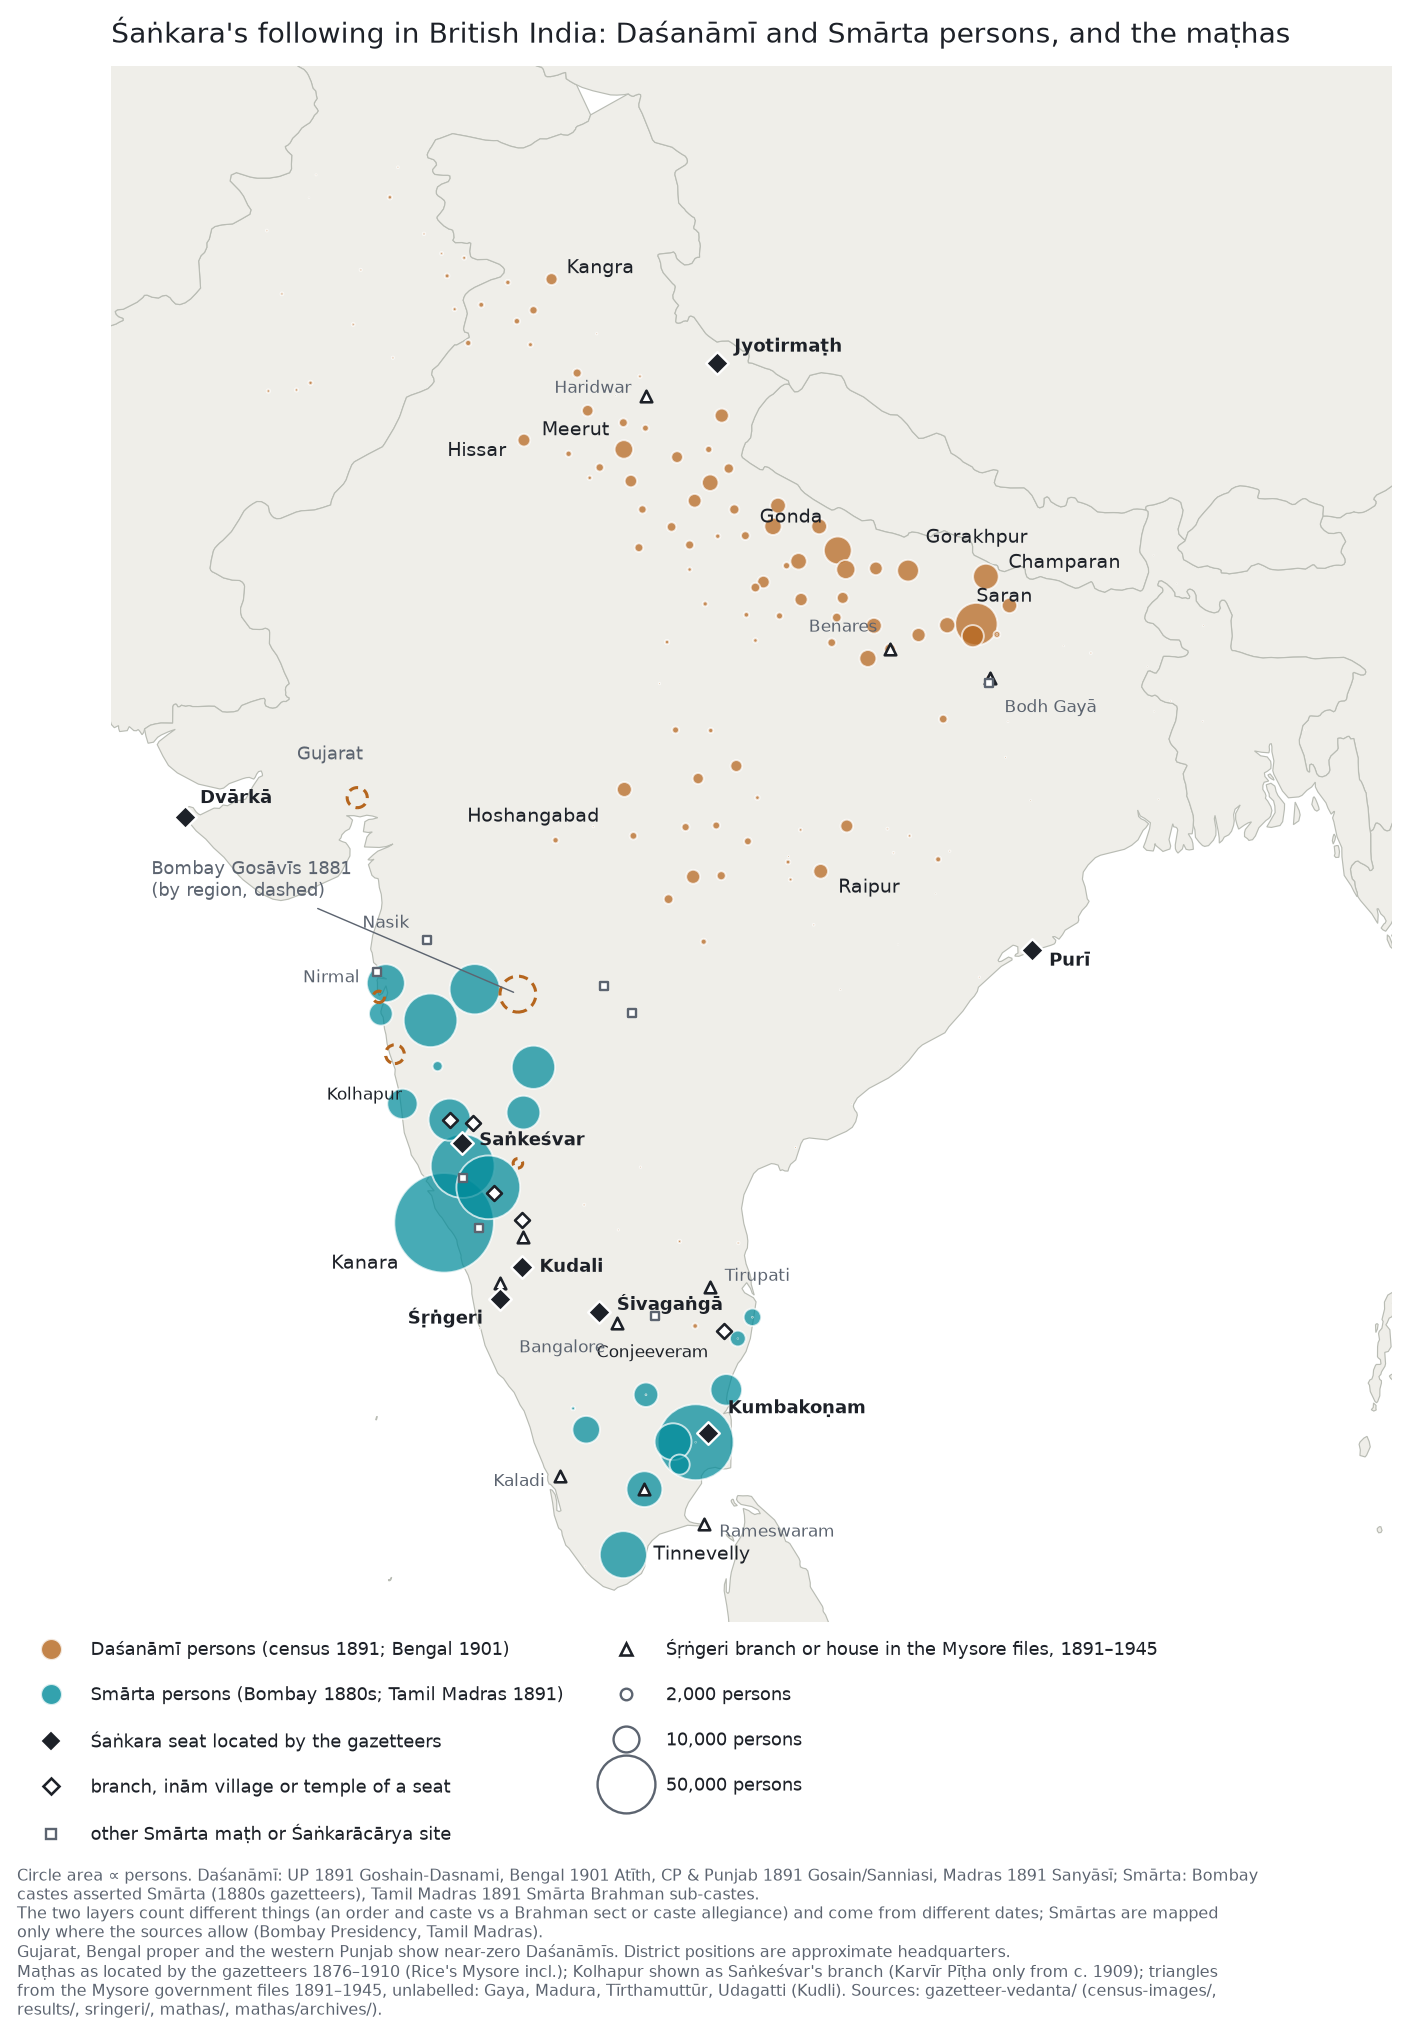
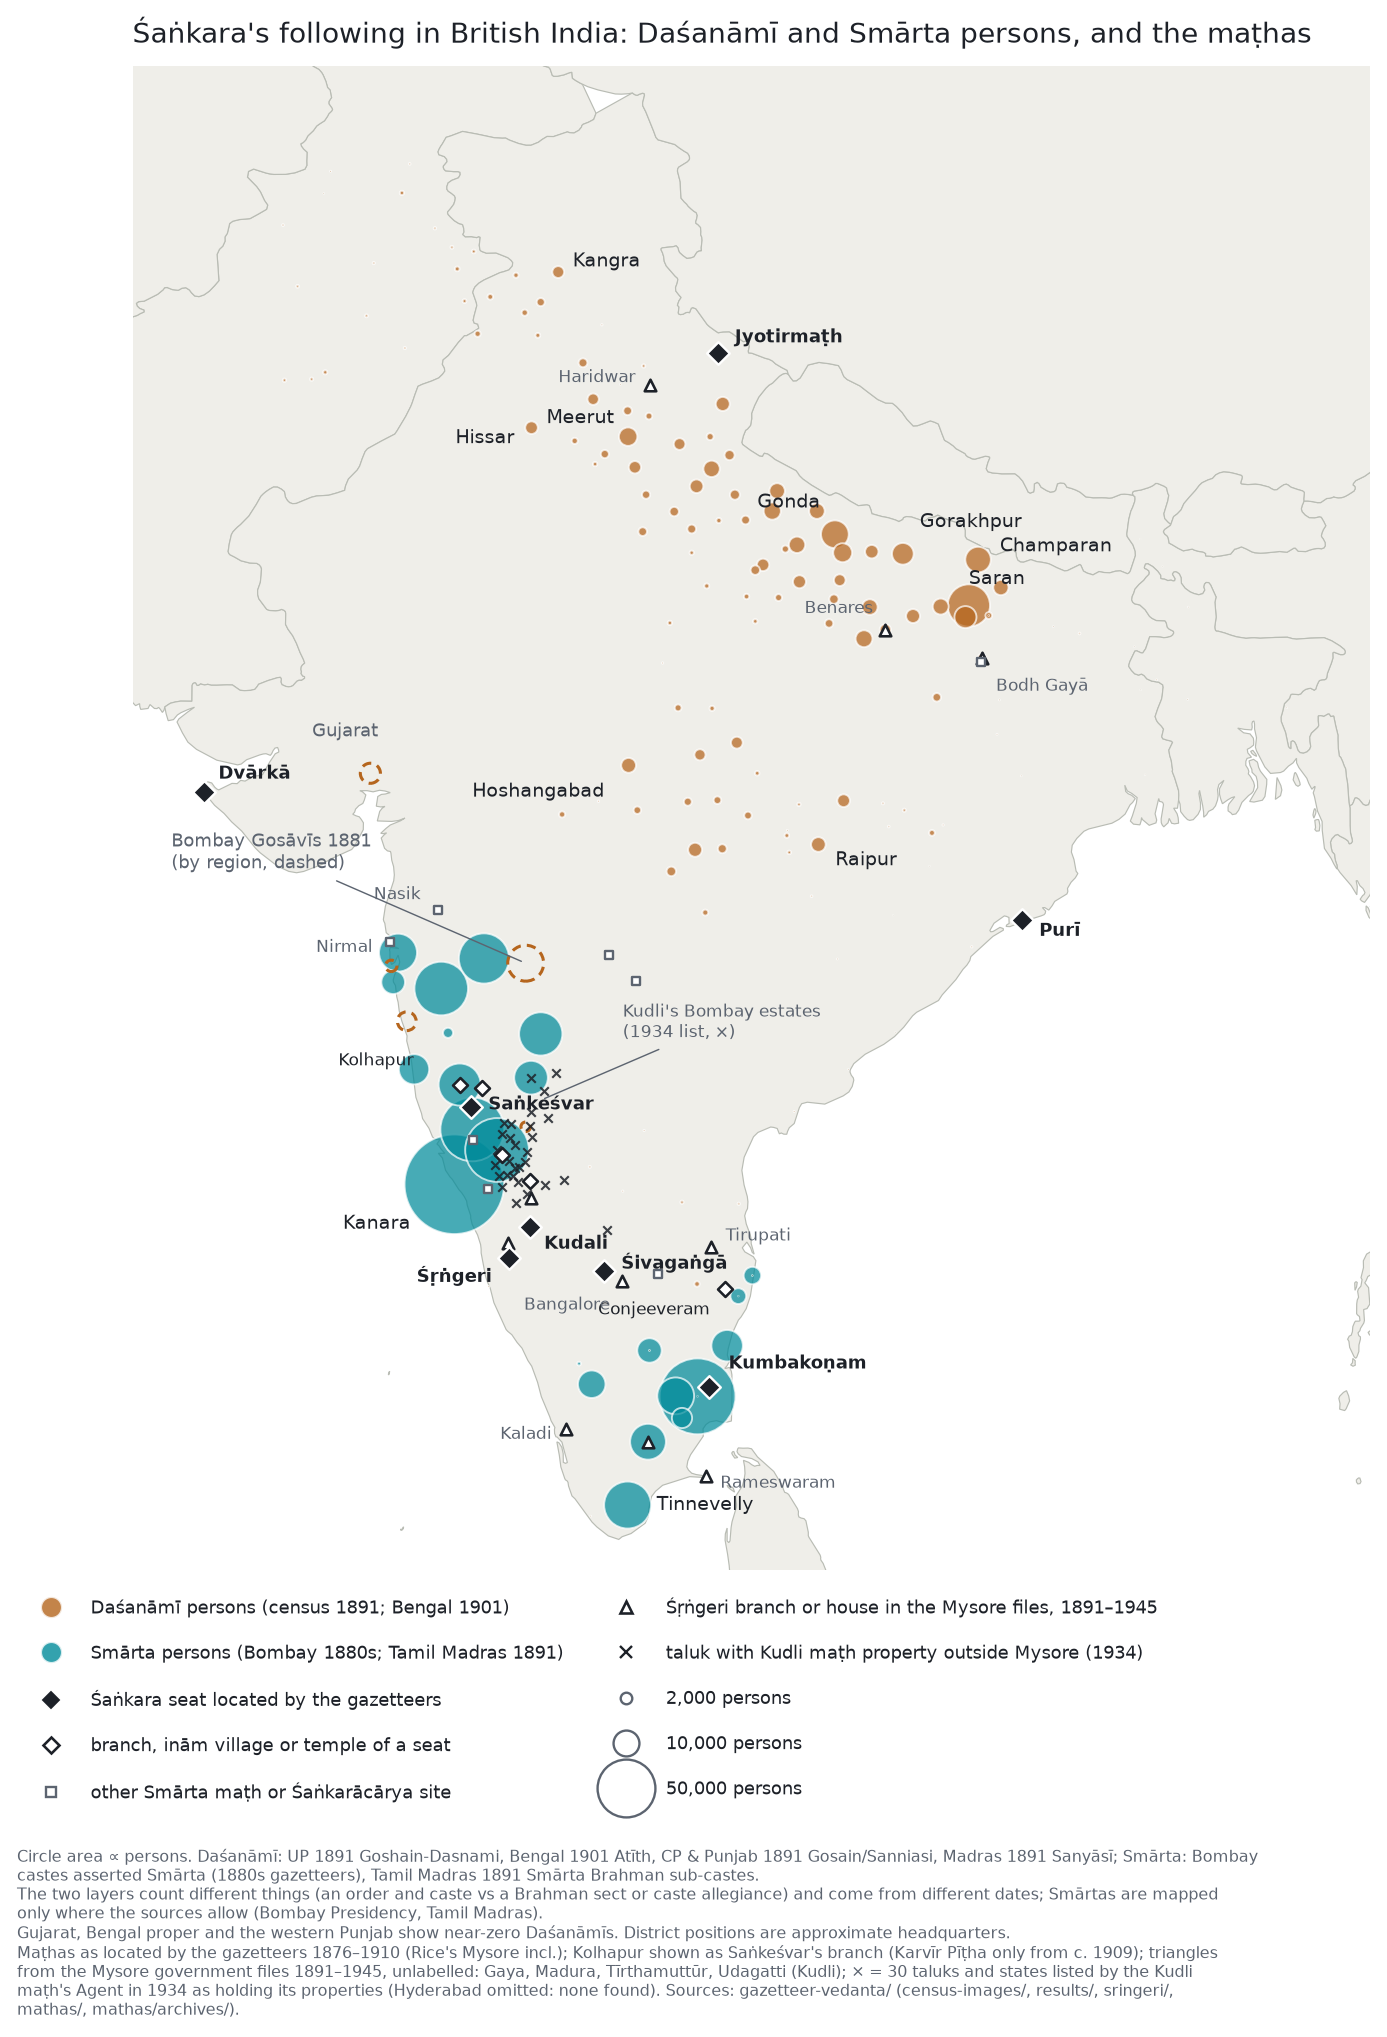
gazetteer-vedanta/map: Kudli maṭh's properties outside Mysore (1934 list) added to the combined map

diff --git a/gazetteer-vedanta/SYNTHESIS.html b/gazetteer-vedanta/SYNTHESIS.html
@@ -111,7 +111,7 @@ footer{font-family:var(--sans);font-size:13.5px;color:var(--muted);border-top:1p
   </table></div>
   <figure class="map">
     <a href="map/combined_map.png"><img src="map/combined_map.png" alt="Map of British India. Ochre circles for Daśanāmī persons form a belt across the Ganges plain, largest in eastern UP and Bihar (Saran, Gorakhpur, Gonda, Champaran), thin in the Central Provinces and the Punjab. Teal circles for Smārta persons cluster on the Bombay Konkan and Karnatak, largest in Kanara and Dharwar, and in the Tamil delta, largest in Tanjore. Black diamonds mark the Śaṅkara seats: Śṛṅgeri, Saṅkeśvar, Kudali, Śivagaṅgā and Kumbakoṇam in the south and west, Dvārkā, Purī and Jyotirmaṭh at the edges." loading="lazy"></a>
-    <figcaption>All six regions on one map. Circle area is proportional to persons. <em class="ochre">Daśanāmīs</em> come from the census: UP, Punjab, CP and Madras 1891, Bengal 1901 (Atīths), and Bombay 1881 Gosāvīs by region only (dashed). <em class="teal">Smārtas</em> come from Bombay castes the 1880s gazetteers call Smārta and from Tamil Madras Smārta Brahman sub-castes (1891). The layers count different things at different dates, and Smārtas are mapped only where the sources allow. Black diamonds mark the Śaṅkara seats the gazetteers locate (1876–1910, Rice’s Mysore included); open diamonds mark their branches, inām villages and temples; small squares mark other Smārta maṭhs and Śaṅkarācārya sites. Triangles mark Śṛṅgeri’s branch maṭhs and houses named in the Mysore government files of 1891–1945 (Rameswaram, Kaladi, Tirupati, Bangalore, Haridwar, Benares, Gaya, Madura, Tīrthamuttūr) and Kudli’s Bombay residence at Udagatti. Kolhapur appears as Saṅkeśvar’s branch, since it became the Karvīr Pīṭha only about 1909. Positions are approximate district headquarters.</figcaption>
+    <figcaption>All six regions on one map. Circle area is proportional to persons. <em class="ochre">Daśanāmīs</em> come from the census: UP, Punjab, CP and Madras 1891, Bengal 1901 (Atīths), and Bombay 1881 Gosāvīs by region only (dashed). <em class="teal">Smārtas</em> come from Bombay castes the 1880s gazetteers call Smārta and from Tamil Madras Smārta Brahman sub-castes (1891). The layers count different things at different dates, and Smārtas are mapped only where the sources allow. Black diamonds mark the Śaṅkara seats the gazetteers locate (1876–1910, Rice’s Mysore included); open diamonds mark their branches, inām villages and temples; small squares mark other Smārta maṭhs and Śaṅkarācārya sites. Triangles mark Śṛṅgeri’s branch maṭhs and houses named in the Mysore government files of 1891–1945 (Rameswaram, Kaladi, Tirupati, Bangalore, Haridwar, Benares, Gaya, Madura, Tīrthamuttūr) and Kudli’s Bombay residence at Udagatti. Small crosses mark the 30 taluks and states outside Mysore that the Kudli maṭh’s Agent listed in 1934 as holding its properties: Dharwar, Bijapur, Belgaum, North Kanara, Bellary, Anantapur and the southern Maratha states. Kolhapur appears as Saṅkeśvar’s branch, since it became the Karvīr Pīṭha only about 1909. Positions are approximate district headquarters.</figcaption>
   </figure>
 </section>
 

diff --git a/gazetteer-vedanta/map/plot_combined.py b/gazetteer-vedanta/map/plot_combined.py
@@ -122,7 +122,7 @@ with open("map/combined_points.tsv", "w", encoding="utf-8") as f:
 
 SCALE = 0.012  # points^2 per person -> 10,000 persons = 120 pt^2
 fig, ax = plt.subplots(figsize=(9.0, 12.2), dpi=170)
-fig.subplots_adjust(left=0.02, right=0.98, top=0.95, bottom=0.2)
+fig.subplots_adjust(left=0.02, right=0.98, top=0.95, bottom=0.225)
 fig.patch.set_facecolor(SEA)
 ax.set_facecolor(SEA)
 gj = json.load(open("map/ne_50m_admin0.geojson"))
@@ -152,7 +152,7 @@ MATHAS = [
     ("seat", 30.56, 79.56, "Jyotirmaṭh", 0.35, 0.3, "left"),
     ("seat", 19.81, 85.83, "Purī", 0.35, -0.2, "left"),
     ("seat", 10.96, 79.38, "Kumbakoṇam", 0.4, 0.45, "left"),
-    ("seat", 14.00, 75.68, "Kudali", 0.35, 0.0, "left"),
+    ("seat", 14.00, 75.68, "Kudali", 0.3, -0.32, "left"),
     ("seat", 13.17, 77.22, "Śivagaṅgā", 0.35, 0.15, "left"),
     ("dep", 16.70, 74.24, "Kolhapur", -0.95, 0.45, "right"),
     ("dep", 16.63, 74.70, "", 0, 0, "left"),        # Khidrapur, inām village of Saṅkeśvar
@@ -180,6 +180,27 @@ MATHAS = [
     ("arch", 13.70, 75.24, "", 0, 0, "left"),       # Tīrthamuttūr, a 'vassal Mutt'
     ("arch", 14.55, 75.70, "", 0, 0, "left"),       # Udagatti, Kudli svāmīs' residence in Bombay
 ]
+# Kudli Śṛṅgeri maṭh: taluks and states outside Mysore holding its properties, from its Agent's list of March 1934
+# (mathas/archives/results/coded/K.tsv, K32). Hyderabad State is left out: it reported no property found.
+# Approximate taluk headquarters.
+KUDLI_ESTATES = [
+    (14.62, 75.62, "Ranibennur"), (14.86, 75.45, "Karajgi"), (14.76, 75.12, "Hangal"), (14.46, 75.39, "Kod"),
+    (14.99, 75.22, "Shiggaon"), (15.56, 75.37, "Navalgund"), (15.18, 74.97, "Kalghatgi"), (15.46, 75.01, "Dharwar"),
+    (15.36, 75.12, "Hubli"), (15.70, 75.73, "Ron"), (15.43, 75.63, "Gadag"),            # Dharwar District
+    (14.97, 75.04, "Mundgod"),                                                          # North Kanara
+    (15.77, 75.12, "Parasgad"),                                                         # Belgaum
+    (15.92, 75.68, "Badami"), (16.18, 75.70, "Bagalkot"), (16.57, 75.97, "Bagevadi"), (16.83, 75.71, "Bijapur"),
+    (16.92, 76.23, "Sindgi"), (16.06, 76.06, "Hungund"),                                # Bijapur District
+    (14.90, 76.38, "Kudligi"), (14.79, 75.99, "Harapanahalli"),                         # Bellary
+    (13.94, 77.27, "Madakasira"),                                                       # Anantapur
+    (15.97, 75.16, "Torgal (Kolhapur State)"), (15.95, 75.30, "Ramdurg"), (15.23, 75.58, "Shirahatti (Sangli)"),
+    (15.13, 75.47, "Lakshmeshwar (Miraj Sr)"), (15.12, 75.37, "Gudageri (Miraj Jr)"), (14.97, 75.33, "Savanur"),
+    (15.68, 75.27, "Sirasangi"), (15.26, 75.25, "Kundgol (Jamkhandi)"),
+]
+ax.scatter([e[1] for e in KUDLI_ESTATES], [e[0] for e in KUDLI_ESTATES], marker="x", s=13, c=INK, linewidths=0.9,
+           alpha=0.85, zorder=6)
+ax.annotate("Kudli's Bombay estates\n(1934 list, ×)", (75.9, 16.4), xytext=(77.6, 17.6), fontsize=7.2, color=MUTED, zorder=8,
+            arrowprops=dict(arrowstyle="-", color=MUTED, lw=0.6))
 MSTYLE = {"seat": dict(marker="D", s=46, c=INK, edgecolors="white", linewidths=1.0),
           "dep": dict(marker="D", s=20, facecolors="white", edgecolors=INK, linewidths=1.1),
           "other": dict(marker="s", s=14, facecolors="white", edgecolors=MUTED, linewidths=1.0),
@@ -224,10 +245,11 @@ handles = [Line2D([], [], marker="o", ls="", ms=9, mfc=OCHRE, mec="white", alpha
            Line2D([], [], marker="D", ls="", ms=6.5, mfc=INK, mec="white", label="Śaṅkara seat located by the gazetteers"),
            Line2D([], [], marker="D", ls="", ms=4.5, mfc="white", mec=INK, mew=1.1, label="branch, inām village or temple of a seat"),
            Line2D([], [], marker="s", ls="", ms=4, mfc="white", mec=MUTED, label="other Smārta maṭh or Śaṅkarācārya site"),
-           Line2D([], [], marker="^", ls="", ms=5.5, mfc="white", mec=INK, mew=1.1, label="Śṛṅgeri branch or house in the Mysore files, 1891–1945")]
+           Line2D([], [], marker="^", ls="", ms=5.5, mfc="white", mec=INK, mew=1.1, label="Śṛṅgeri branch or house in the Mysore files, 1891–1945"),
+           Line2D([], [], marker="x", ls="", ms=5, mec=INK, mew=1.0, label="taluk with Kudli maṭh property outside Mysore (1934)")]
 for n in (2000, 10000, 50000):
     handles.append(Line2D([], [], marker="o", ls="", ms=(n * SCALE) ** 0.5, mfc="none", mec=MUTED, label=f"{n:,} persons"))
-leg = fig.legend(handles=handles, loc="lower left", bbox_to_anchor=(0.02, 0.085), fontsize=7.6, frameon=False,
+leg = fig.legend(handles=handles, loc="lower left", bbox_to_anchor=(0.02, 0.105), fontsize=7.6, frameon=False,
                 labelspacing=1.5, handletextpad=1.2, ncol=2, columnspacing=2.5)
 for t in leg.get_texts():
     t.set_color(INK)
@@ -237,7 +259,7 @@ import textwrap
 FOOT = ("Circle area ∝ persons. Daśanāmī: UP 1891 Goshain-Dasnami, Bengal 1901 Atīth, CP & Punjab 1891 Gosain/Sanniasi, Madras 1891 Sanyāsī; Smārta: Bombay castes asserted Smārta (1880s gazetteers), Tamil Madras 1891 Smārta Brahman sub-castes.\nThe two layers count different things (an order and caste vs a Brahman sect "
          "or caste allegiance) and come from different dates; Smārtas are mapped only where the sources allow "
          "(Bombay Presidency, Tamil Madras).\nGujarat, Bengal proper and the western Punjab show near-zero Daśanāmīs. "
-         "District positions are approximate headquarters.\nMaṭhas as located by the gazetteers 1876–1910 (Rice's Mysore incl.); Kolhapur shown as Saṅkeśvar's branch (Karvīr Pīṭha only from c. 1909); triangles from the Mysore government files 1891–1945, unlabelled: Gaya, Madura, Tīrthamuttūr, Udagatti (Kudli). "
+         "District positions are approximate headquarters.\nMaṭhas as located by the gazetteers 1876–1910 (Rice's Mysore incl.); Kolhapur shown as Saṅkeśvar's branch (Karvīr Pīṭha only from c. 1909); triangles from the Mysore government files 1891–1945, unlabelled: Gaya, Madura, Tīrthamuttūr, Udagatti (Kudli); × = 30 taluks and states listed by the Kudli maṭh's Agent in 1934 as holding its properties (Hyderabad omitted: none found). "
          "Sources: gazetteer-vedanta/ (census-images/, results/, sringeri/, mathas/, mathas/archives/).")
 FOOT = "\n".join(textwrap.fill(par, 150) for par in FOOT.split("\n"))
 fig.text(0.02, 0.008, FOOT, fontsize=6.6, color=MUTED, va="bottom")

diff --git a/gazetteer-vedanta/SYNTHESIS.md b/gazetteer-vedanta/SYNTHESIS.md
@@ -34,7 +34,7 @@ serving temples.
 
 ![Daśanāmī (ochre) and Smārta (teal) persons by district across the six regions](map/combined_map.png)
 
-Circle area is proportional to persons. The Daśanāmī layer comes from the census tables, and the Smārta layer covers Bombay and Tamil Madras only. Diamonds mark the Śaṅkara seats (filled) and their branches, inām villages and temples (open) as the gazetteers locate them; squares mark other Smārta maṭhs (`mathas/README.md`). Triangles mark Śṛṅgeri's branches and houses in the Mysore files, 1891–1945 (`mathas/archives/README.md`). See `map/plot_combined.py`.
+Circle area is proportional to persons. The Daśanāmī layer comes from the census tables, and the Smārta layer covers Bombay and Tamil Madras only. Diamonds mark the Śaṅkara seats (filled) and their branches, inām villages and temples (open) as the gazetteers locate them; squares mark other Smārta maṭhs (`mathas/README.md`). Triangles mark Śṛṅgeri's branches and houses in the Mysore files, 1891–1945 (`mathas/archives/README.md`). Crosses mark the 30 taluks and states listed in 1934 as holding the Kudli maṭh's properties outside Mysore. See `map/plot_combined.py`.
 
 1. **The west-coast belt under Śṛṅgeri.** This is the one region where a Śaṅkara seat commands much of the
    population, non-Brahmins included.
